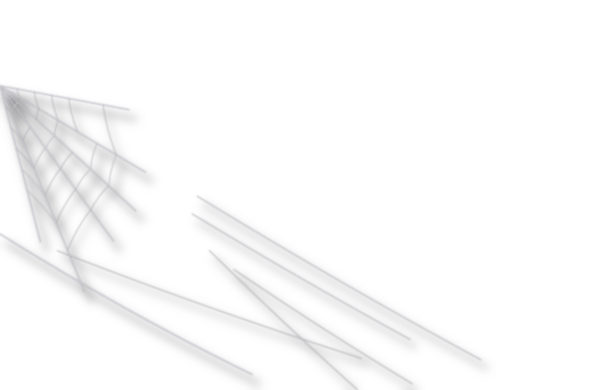
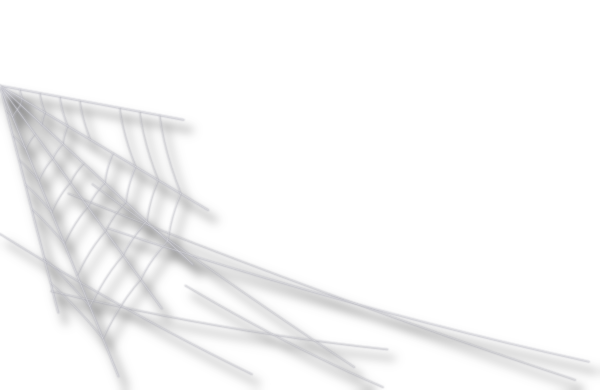
Prisma 0.8.17: rename to Prisma, smaller web, bottom-left decor always shown
The mod is now called Prisma everywhere users see it: app name, settings
entry and header, theme and icon names, update dialog, patch names.

The Halloween web is redrawn at about two thirds of its size, and the
bottom-left web is denser and brighter. Corner pieces no longer hide
over a text input: bottom-left pieces sit just above it (the comment
box under feed videos was hiding them) and top-right pieces just below.

Claude-Session: https://claude.ai/code/session_01NvRu4MWUCwR7ibe6HjJbv4

diff --git a/patches/src/main/kotlin/app/morphe/patches/tiktok/misc/prism/AppIconsPatch.kt b/patches/src/main/kotlin/app/morphe/patches/tiktok/misc/prism/AppIconsPatch.kt
@@ -13,14 +13,14 @@ private const val LAUNCHER_ALIAS = "com.ss.android.ugc.aweme.splash.SplashActivi
 // Keep in sync with app.morphe.extension.tiktok.prism.PrismIcons.
 private const val ALIAS_PREFIX = "com.ss.android.ugc.aweme.splash.PrismIcon_"
 private const val DEFAULT_ICON = "prism"
-private const val APP_NAME = "Prism"
+private const val APP_NAME = "Prisma"
 private val CUSTOM_ICONS = listOf("prism", "halloween", "femboy", "neon", "ocean", "gold", "sakura")
 
 @Suppress("unused")
 val appIconsPatch = resourcePatch(
     name = "App icons",
-    description = "Adds Prism launcher icons (Prism, Halloween, Femboy, Neon, Ocean, Gold, Sakura) " +
-        "that can be switched in the mod settings. Prism is the default icon and the app is named Prism.",
+    description = "Adds Prisma launcher icons (Prisma, Halloween, Femboy, Neon, Ocean, Gold, Sakura) " +
+        "that can be switched in the mod settings. Prisma is the default icon and the app is named Prisma.",
     default = true,
 ) {
     compatibleWith(*AppCompatibilities.tiktok4753())

diff --git a/patches/src/main/kotlin/app/morphe/patches/tiktok/misc/settings/SettingsPatch.kt b/patches/src/main/kotlin/app/morphe/patches/tiktok/misc/settings/SettingsPatch.kt
@@ -44,7 +44,7 @@ private data class OpenDebugTargets(
 @Suppress("unused")
 val settingsPatch = bytecodePatch(
     name = "Settings",
-    description = "Adds the Prism settings menu to the top of TikTok settings. Supports TikTok 47.5.3.",
+    description = "Adds the Prisma settings menu to the top of TikTok settings. Supports TikTok 47.5.3.",
     default = true,
 ) {
     dependsOn(sharedExtensionPatch)
@@ -353,7 +353,7 @@ val settingsPatch = bytecodePatch(
         val moveResultIndex = getStringInvokeIndex + 1
         val titleStringRegister = compose.getInstruction<OneRegisterInstruction>(moveResultIndex).registerA
 
-        composeMutable.addInstruction(moveResultIndex + 1, "const-string v$titleStringRegister, \"Prism\"")
+        composeMutable.addInstruction(moveResultIndex + 1, "const-string v$titleStringRegister, \"Prisma\"")
 
         OpenDebugCellVmDefaultStateFingerprint.methodOrNull?.let { defaultState ->
             val constructorReference = defaultState.implementation!!.instructions.firstNotNullOfOrNull { instruction ->

diff --git a/patches/src/main/kotlin/app/morphe/patches/tiktok/misc/prism/PrismUiPatch.kt b/patches/src/main/kotlin/app/morphe/patches/tiktok/misc/prism/PrismUiPatch.kt
@@ -26,7 +26,7 @@ private val decorImagesPatch = resourcePatch {
         DECOR_IMAGES.forEach { key ->
             val name = "prism_decor_$key.png"
             val stream = object {}.javaClass.classLoader.getResourceAsStream("tiktok/decor/$name")
-                ?: throw PatchException("Prism UI: missing bundled resource $name")
+                ?: throw PatchException("Prisma UI: missing bundled resource $name")
             stream.use { Files.copy(it, drawables.resolve(name).toPath(), StandardCopyOption.REPLACE_EXISTING) }
         }
     }
@@ -34,7 +34,7 @@ private val decorImagesPatch = resourcePatch {
 
 @Suppress("unused")
 val prismUiPatch = bytecodePatch(
-    name = "Prism UI",
+    name = "Prisma UI",
     description = "Liquid glass bottom bar, color themes and nickname badges with a password protected Admin Panel.",
     default = true,
 ) {

diff --git a/patches/src/main/kotlin/app/morphe/patches/tiktok/misc/prism/PrismThemeColorsPatch.kt b/patches/src/main/kotlin/app/morphe/patches/tiktok/misc/prism/PrismThemeColorsPatch.kt
@@ -46,8 +46,8 @@ private fun MethodReference.colorBridgeReceiver(): String? {
 
 @Suppress("unused")
 val prismThemeColorsPatch = bytecodePatch(
-    name = "Prism theme colors",
-    description = "Applies the Prism theme chosen in the mod settings to TikTok's own buttons, " +
+    name = "Prisma theme colors",
+    description = "Applies the Prisma theme chosen in the mod settings to TikTok's own buttons, " +
         "highlights and accents by recoloring TikTok's brand red and cyan.",
     default = true,
 ) {

diff --git a/patches/src/main/kotlin/app/morphe/patches/tiktok/misc/prism/NicknameBadgesPatch.kt b/patches/src/main/kotlin/app/morphe/patches/tiktok/misc/prism/NicknameBadgesPatch.kt
@@ -45,7 +45,7 @@ private val badgeImagesPatch = resourcePatch {
 @Suppress("unused")
 val nicknameBadgesPatch = bytecodePatch(
     name = "Nickname badges",
-    description = "Shows Prism badges after the names of badge holders everywhere TikTok shows a name: " +
+    description = "Shows Prisma badges after the names of badge holders everywhere TikTok shows a name: " +
         "feed, profiles, comments and messages.",
     default = true,
 ) {

diff --git a/extensions/tiktok/src/main/java/app/morphe/extension/tiktok/prism/PrismDecor.java b/extensions/tiktok/src/main/java/app/morphe/extension/tiktok/prism/PrismDecor.java
@@ -62,6 +62,8 @@ public final class PrismDecor extends Drawable implements Runnable {
     /** Rectangles (left, top, right, bottom) of text inputs. */
     private float[] blocked = new float[0];
     private float topRightAlpha;
+    /** Where the last top-right piece ended up after moving clear of inputs. */
+    private float placedTop;
     private float bottomLeftAlpha;
 
     private PrismDecor(View host) {
@@ -269,8 +271,10 @@ public final class PrismDecor extends Drawable implements Runnable {
         }
         float scale = scaleFor(bitmap, maxWidth);
         float left = w - bitmap.getWidth() * scale;
+        top = belowInputs(left, w, bitmap.getHeight() * scale, top);
         rect.set(left, top, w, top + bitmap.getHeight() * scale);
         topRightAlpha = fade(topRightAlpha, rect);
+        placedTop = top;
         matrix.setScale(scale, scale);
         matrix.postTranslate(left, top);
         matrix.postRotate(sway(t, degrees), left + bitmap.getWidth() * scale * pivotX,
@@ -290,6 +294,7 @@ public final class PrismDecor extends Drawable implements Runnable {
         float scale = scaleFor(bitmap, maxWidth);
         float width = bitmap.getWidth() * scale;
         float left = w - width - rightGap;
+        top = belowInputs(left, left + width, bitmap.getHeight() * scale, top);
         rect.set(left, top, left + width, top + bitmap.getHeight() * scale);
         topRightAlpha = fade(topRightAlpha, rect);
         matrix.setScale(scale, scale);
@@ -307,6 +312,7 @@ public final class PrismDecor extends Drawable implements Runnable {
         }
         float scale = scaleFor(bitmap, maxWidth);
         float height = bitmap.getHeight() * scale;
+        bottom = aboveInputs(0, bitmap.getWidth() * scale, height, bottom);
         float y = bottom - height - lift;
         rect.set(0, y, bitmap.getWidth() * scale, y + height);
         bottomLeftAlpha = fade(bottomLeftAlpha, rect);
@@ -317,7 +323,46 @@ public final class PrismDecor extends Drawable implements Runnable {
         canvas.drawBitmap(bitmap, matrix, paint);
     }
 
-    /** Eases a piece's visibility toward hidden when it covers a text input. */
+    /**
+     * Lowest bottom edge for a bottom-left piece that keeps it clear of text inputs, such as
+     * the comment box under the video: the piece sits on top of the input instead.
+     */
+    private float aboveInputs(float left, float right, float height, float bottom) {
+        for (int pass = 0; pass < 3; pass++) {
+            boolean moved = false;
+            for (int i = 0; i + 3 < blocked.length; i += 4) {
+                if (left < blocked[i + 2] && blocked[i] < right
+                        && bottom - height < blocked[i + 3] && blocked[i + 1] < bottom) {
+                    bottom = blocked[i + 1] - 2 * dp;
+                    moved = true;
+                }
+            }
+            if (!moved) {
+                break;
+            }
+        }
+        return bottom;
+    }
+
+    /** Highest top edge for a top-right piece that keeps it clear of text inputs (search). */
+    private float belowInputs(float left, float right, float height, float top) {
+        for (int pass = 0; pass < 3; pass++) {
+            boolean moved = false;
+            for (int i = 0; i + 3 < blocked.length; i += 4) {
+                if (left < blocked[i + 2] && blocked[i] < right
+                        && top < blocked[i + 3] && blocked[i + 1] < top + height) {
+                    top = blocked[i + 3] + 2 * dp;
+                    moved = true;
+                }
+            }
+            if (!moved) {
+                break;
+            }
+        }
+        return top;
+    }
+
+    /** Eases a piece's visibility toward hidden when it still covers a text input. */
     private float fade(float current, RectF area) {
         float target = 1f;
         for (int i = 0; i + 3 < blocked.length; i += 4) {
@@ -333,7 +378,8 @@ public final class PrismDecor extends Drawable implements Runnable {
 
     private void halloween(Canvas canvas, float w, float top, float bottom, float t) {
         float swayDegrees = 1.1f;
-        float scale = topRight(canvas, "web_tr", w, top, 0.56f * w, swayDegrees, 1f, 0f, 1f, t);
+        float scale = topRight(canvas, "web_tr", w, top, 0.4f * w, swayDegrees, 1f, 0f, 1f, t);
+        top = placedTop;
         bottomLeft(canvas, "web_bl", w, bottom, 0.5f * w, 1.4f, 0f, 0f, 1f, t);
         Bitmap web = image("web_tr");
         Bitmap spider = image("spider");
@@ -383,6 +429,7 @@ public final class PrismDecor extends Drawable implements Runnable {
             return;
         }
         // A column of bubbles rising from the bottom-left corner, and a few in the top right.
+        bottom = aboveInputs(0, 100 * dp, 180 * dp, bottom);
         rect.set(0, bottom - 180 * dp, 100 * dp, bottom);
         bottomLeftAlpha = fade(bottomLeftAlpha, rect);
         for (int i = 0; i < 6; i++) {

diff --git a/tools/prism-decor/generate_decor.py b/tools/prism-decor/generate_decor.py
@@ -216,7 +216,7 @@ def orb_web(st, hub, frame, spokes, rings, broken=0.07, first=0.08):
 
 
 def web_top_right(path):
-    w, h = int(230 * S), int(255 * S)
+    w, h = int(160 * S), int(178 * S)
     st = Strands(w, h, 7)
     hub = (0.66 * w, 0.30 * h)
     # Anchors: along the top edge, down the right edge, plus long lines pulled to the left
@@ -224,7 +224,7 @@ def web_top_right(path):
     frame = [(0.14 * w, 0.03 * h), (0.55 * w, 0.015 * h), (0.93 * w, 0.04 * h), (0.985 * w, 0.14 * h),
              (0.975 * w, 0.50 * h), (0.92 * w, 0.76 * h), (0.80 * w, 0.90 * h), (0.55 * w, 0.60 * h),
              (0.06 * w, 0.22 * h)]
-    orb_web(st, hub, frame, spokes=16, rings=10, broken=0.16)
+    orb_web(st, hub, frame, spokes=15, rings=9, broken=0.14)
     # Frame threads tied to the top and right screen edges.
     for a, b in (((0.14 * w, 0.03 * h), (0.10 * w, 0.0)), ((0.55 * w, 0.015 * h), (0.52 * w, 0.0)),
                  ((0.93 * w, 0.04 * h), (0.98 * w, 0.0)), ((0.985 * w, 0.14 * h), (w - 1, 0.13 * h)),
@@ -249,22 +249,22 @@ def web_bottom_left(path):
     spokes = []
     for i in range(6):
         a = math.radians(8 + i * 13 + rng.uniform(-3, 3))
-        r = rng.uniform(0.42, 0.55) * w * (0.8 if i in (0, 5) else 1)
-        p = (corner[0] + math.cos(a) * r * 0.55, corner[1] + math.sin(a) * r * 0.75)
+        r = rng.uniform(0.55, 0.68) * w * (0.8 if i in (0, 5) else 1)
+        p = (corner[0] + math.cos(a) * r * 0.62, corner[1] + math.sin(a) * r * 0.85)
         spokes.append(p)
-        st.line([corner, p], 1.3 * S * 0.42, 0.9)
-    for k in range(1, 7):
-        f = k / 7.5
+        st.line([corner, p], 1.6 * S * 0.42, 1.0)
+    for k in range(1, 9):
+        f = k / 9.2
         pts = [(corner[0] + (p[0] - corner[0]) * f, corner[1] + (p[1] - corner[1]) * f) for p in spokes]
         for a, b in zip(pts, pts[1:]):
             if rng.random() < 0.08:
                 continue
-            st.line(st.sag(a, b, 0.08, toward=corner, steps=6), 0.95 * S * 0.42)
+            st.line(st.sag(a, b, 0.08, toward=corner, steps=6), 1.2 * S * 0.42, rng.uniform(0.8, 1.0))
     # Long torn strands drifting toward the bottom edge.
     for i in range(5):
         a = (rng.uniform(0.05, 0.4) * w, rng.uniform(0.45, 0.75) * h)
         b = (rng.uniform(0.55, 1.0) * w, rng.uniform(0.86, 1.0) * h)
-        st.line(st.sag(a, b, rng.uniform(0.01, 0.04)), 1.2 * S * 0.42, rng.uniform(0.55, 0.9))
+        st.line(st.sag(a, b, rng.uniform(0.01, 0.04)), 1.4 * S * 0.42, rng.uniform(0.8, 1.0))
     st.line(st.sag((0.0, 0.6 * h), (0.42 * w, 0.96 * h), 0.03), 1.4 * S * 0.42, 0.9)
     s = st.render()
     save(s, path)
@@ -864,7 +864,7 @@ def make_preview(out, path):
         if sprite:
             img = cairo.ImageSurface.create_from_png(os.path.join(out, f"prism_decor_{sprite}.png"))
             if sprite == "spider":
-                hx, hy = W - 230 * S + 0.66 * 230 * S, top + 0.30 * 255 * S
+                hx, hy = W - 160 * S + 0.66 * 160 * S, top + 0.30 * 178 * S
                 c.set_source_rgba(0.85, 0.85, 0.9, 0.8)
                 c.set_line_width(0.5 * S)
                 c.move_to(hx, hy)

diff --git a/extensions/tiktok/src/main/java/app/morphe/extension/tiktok/prism/PrismUpdate.java b/extensions/tiktok/src/main/java/app/morphe/extension/tiktok/prism/PrismUpdate.java
@@ -32,8 +32,8 @@ import app.morphe.extension.tiktok.settings.Settings;
 @SuppressWarnings("unused")
 public final class PrismUpdate {
     /** Build number of this mod version. Bump together with gradle.properties. */
-    public static final int CURRENT_CODE = 816;
-    public static final String CURRENT_NAME = "0.8.16";
+    public static final int CURRENT_CODE = 817;
+    public static final String CURRENT_NAME = "0.8.17";
 
     private static final String[] MANIFEST_URLS = {
             "https://raw.githubusercontent.com/meteotok/tiktok-patches-for-morph/claude/project-thread-thdlg5/prism-update.json",
@@ -119,7 +119,7 @@ public final class PrismUpdate {
         String message = "Сейчас стоит " + CURRENT_NAME + ", вышла " + name + "."
                 + (notes.isEmpty() ? "" : "\n\n" + notes);
         new AlertDialog.Builder(activity)
-                .setTitle("Доступно обновление Prism")
+                .setTitle("Доступно обновление Prisma")
                 .setMessage(message)
                 .setPositiveButton("Обновить", (dialog, which) -> download(activity, name, url))
                 .setNegativeButton("Позже", null)
@@ -132,12 +132,12 @@ public final class PrismUpdate {
         try {
             DownloadManager manager = (DownloadManager) context.getSystemService(Context.DOWNLOAD_SERVICE);
             DownloadManager.Request request = new DownloadManager.Request(Uri.parse(url))
-                    .setTitle("Prism " + name)
-                    .setDescription("Обновление Prism")
+                    .setTitle("Prisma " + name)
+                    .setDescription("Обновление Prisma")
                     .setMimeType(APK_MIME)
                     .setNotificationVisibility(DownloadManager.Request.VISIBILITY_VISIBLE_NOTIFY_COMPLETED)
                     .setDestinationInExternalFilesDir(context, Environment.DIRECTORY_DOWNLOADS,
-                            "prism-" + name + ".apk");
+                            "prisma-" + name + ".apk");
             long id = manager.enqueue(request);
             BroadcastReceiver receiver = new BroadcastReceiver() {
                 @Override
@@ -159,7 +159,7 @@ public final class PrismUpdate {
             } else {
                 context.registerReceiver(receiver, filter);
             }
-            Utils.showToastLong("Качаю Prism " + name + ", установщик откроется сам");
+            Utils.showToastLong("Качаю Prisma " + name + ", установщик откроется сам");
         } catch (Throwable throwable) {
             Logger.printDebug(() -> "Prism: update download failed: " + throwable);
             openInBrowser(activity, url);

diff --git a/extensions/tiktok/src/main/java/app/morphe/extension/tiktok/settings/preference/categories/AppearancePreferenceCategory.java b/extensions/tiktok/src/main/java/app/morphe/extension/tiktok/settings/preference/categories/AppearancePreferenceCategory.java
@@ -67,7 +67,7 @@ public final class AppearancePreferenceCategory extends ConditionalPreferenceCat
         addPreference(new TogglePreference(
                 context,
                 "Проверять обновления",
-                "При запуске Prism смотрит, вышла ли новая версия, и предлагает обновиться в одно касание.",
+                "При запуске Prisma смотрит, вышла ли новая версия, и предлагает обновиться в одно касание.",
                 Settings.PRISM_UPDATE_CHECK
         ));
 
@@ -89,7 +89,7 @@ public final class AppearancePreferenceCategory extends ConditionalPreferenceCat
         ));
         addPreference(new TogglePreference(
                 context,
-                "Бейджи из репозитория Prism",
+                "Бейджи из репозитория Prisma",
                 "Подтягивать общий список бейджей, который ведёт админ мода.",
                 Settings.PRISM_REMOTE_BADGES
         ));

diff --git a/extensions/tiktok/src/main/java/app/morphe/extension/tiktok/prism/PrismTheme.java b/extensions/tiktok/src/main/java/app/morphe/extension/tiktok/prism/PrismTheme.java
@@ -16,7 +16,7 @@ import app.morphe.extension.tiktok.settings.Settings;
 public enum PrismTheme {
     CLASSIC("classic", "Классика", "Цвета TikTok, светлая или тёмная по системе",
             0, rgb(254, 44, 85), rgb(37, 244, 238), 0, 0, 0),
-    PRISM("prism", "Prism", "Ночное небо, стекло и радужные блики",
+    PRISM("prism", "Prisma", "Ночное небо, стекло и радужные блики",
             1, rgb(139, 92, 246), rgb(34, 211, 238), rgb(14, 12, 34), rgb(5, 6, 18), rgb(240, 240, 255)),
     HALLOWEEN("halloween", "Хеллоуин", "Тыквы, ведьмы и фиолетовый туман",
             1, rgb(255, 122, 24), rgb(142, 45, 226), rgb(28, 12, 38), rgb(10, 5, 14), rgb(255, 236, 214)),

diff --git a/extensions/tiktok/src/main/java/app/morphe/extension/tiktok/prism/PrismIcons.java b/extensions/tiktok/src/main/java/app/morphe/extension/tiktok/prism/PrismIcons.java
@@ -18,7 +18,7 @@ import app.morphe.extension.tiktok.settings.Settings;
 @SuppressWarnings("unused")
 public enum PrismIcons {
     CLASSIC("classic", "Классика", null, Color.rgb(37, 244, 238), Color.rgb(254, 44, 85)),
-    PRISM("prism", "Prism", "prism_icon_prism", Color.rgb(139, 92, 246), Color.rgb(34, 211, 238)),
+    PRISM("prism", "Prisma", "prism_icon_prism", Color.rgb(139, 92, 246), Color.rgb(34, 211, 238)),
     HALLOWEEN("halloween", "Хеллоуин", "prism_icon_halloween", Color.rgb(255, 140, 26), Color.rgb(142, 45, 226)),
     FEMBOY("femboy", "Фембой", "prism_icon_femboy", Color.rgb(255, 120, 190), Color.rgb(126, 200, 255)),
     NEON("neon", "Неон", "prism_icon_neon", Color.rgb(57, 255, 20), Color.rgb(255, 0, 229)),

diff --git a/extensions/tiktok/src/main/java/app/morphe/extension/tiktok/settings/TikTokActivityHook.java b/extensions/tiktok/src/main/java/app/morphe/extension/tiktok/settings/TikTokActivityHook.java
@@ -37,7 +37,7 @@ public class TikTokActivityHook {
             Constructor entryConstructor = entryClazz.getConstructor(entryInfoClazz);
             Constructor entryInfoConstructor = entryInfoClazz.getDeclaredConstructors()[0];
             Object buttonInfo = entryInfoConstructor.newInstance(
-                    "Prism", null, (View.OnClickListener) view -> startSettingsActivity(), "morphe");
+                    "Prisma", null, (View.OnClickListener) view -> startSettingsActivity(), "morphe");
             return entryConstructor.newInstance(buttonInfo);
         } catch (ClassNotFoundException | NoSuchMethodException | InvocationTargetException | IllegalAccessException |
                  InstantiationException e) {
